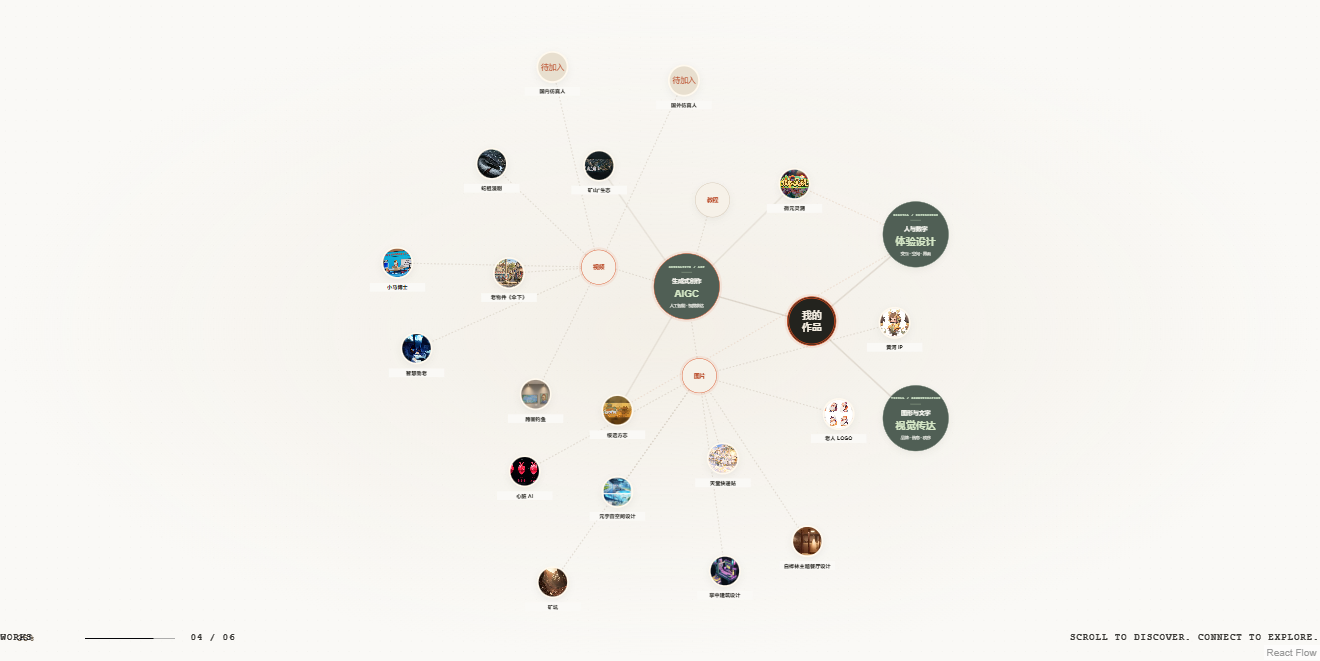
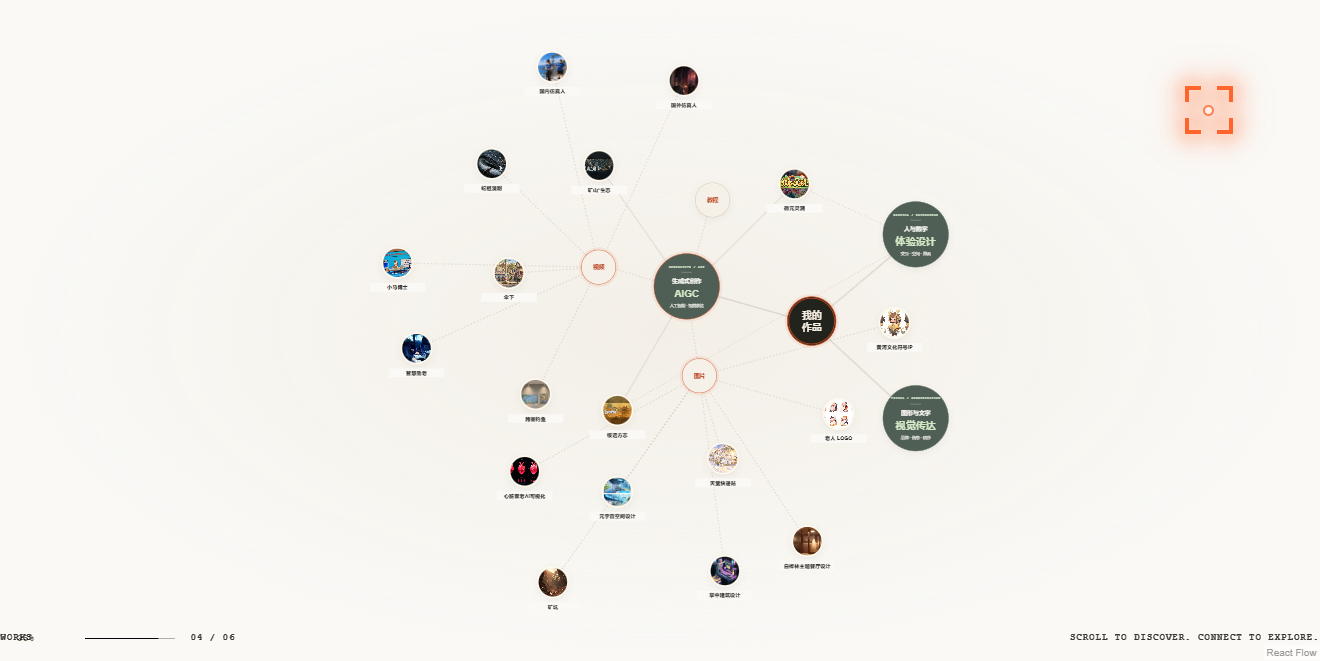
PHASE 5 已确认内容的收尾
核验 67 个作品，素材无缺失，详情入口通过检查。
手机端加入“领域 → 分类 → 作品”分层浏览。
支持作品直达链接、刷新恢复、复制链接及前进／后退。
时间线新增“在图谱中定位”，原概况仍在右侧展开。

diff --git a/New/js/components/WorkGraph.tsx b/New/js/components/WorkGraph.tsx
@@ -1,6 +1,7 @@
 import { memo, useEffect, useMemo, useRef, useState } from 'react';
 import { Background, Handle, Position, ReactFlow, useStore, type Edge, type Node, type NodeProps, type ReactFlowInstance } from '@xyflow/react';
 import { useElasticGraph } from '../hooks/useElasticGraph';
+import {journeyEntries} from '../../data/journey';
 import { categories } from '../../data/content';
 import { graphDetailKeys, graphGroups, graphWorks } from '../../data/graph';
 import { legacyAsset } from '../lib/assets';
@@ -68,12 +69,15 @@ function readGraphReturn():GraphReturn|null{
 }
 export default function WorkGraph(){
  const [restored]=useState(readGraphReturn);
+ const [linked]=useState(()=>graphWorks.find(w=>w.id===(location.hash.startsWith('#work=')?location.hash.slice(6):new URLSearchParams(location.search).get('project'))));
+ const linkedGroup=graphGroups.find(g=>g.id===linked?.group);
+
  const restoreViewport=useRef(Boolean(restored));
  const [returnToken]=useState(()=>crypto.randomUUID());
- const [category,setCategory]=useState<string|null>(restored?.category??null);
- const [group,setGroup]=useState<string|null>(restored?.group??null);
- const [expanded,setExpanded]=useState<string[]>(restored?.expanded??[]);
- const [selected,setSelected]=useState<string|null>(restored?.selected??null);
+ const [category,setCategory]=useState<string|null>(restored?.category??linkedGroup?.category??null);
+ const [group,setGroup]=useState<string|null>(restored?.group??(linkedGroup?.id==='scenes'?null:linkedGroup?.id)??null);
+ const [expanded,setExpanded]=useState<string[]>(restored?.expanded??(linkedGroup?[linkedGroup.category,...(linkedGroup.id==='scenes'?[]:[linkedGroup.id])]:[]));
+ const [selected,setSelected]=useState<string|null>(restored?.selected??linked?.id??null);
  const [flow,setFlow]=useState<ReactFlowInstance<ArchiveNode>|null>(null);
  const [resetVersion,setResetVersion]=useState(0);
  const historySignature=useRef('');
@@ -83,7 +87,8 @@ export default function WorkGraph(){
   if(historySignature.current===signature)return;
   const first=!historySignature.current;historySignature.current=signature;
   const next={...history.state,portfolioGraph:snapshot};
-  if(first)history.replaceState(next,'');else history.pushState(next,'');
+  const url=new URL(location.href);if(selected)url.searchParams.set('project',selected);else {url.searchParams.delete('project');if(url.hash.startsWith('#work='))url.hash='works';}
+  if(first)history.replaceState(next,'',url);else history.pushState(next,'',url);
  },[expanded,selected,category,group]);
  useEffect(()=>{
   const restore=(event:PopStateEvent)=>{
@@ -93,6 +98,16 @@ export default function WorkGraph(){
   };
   window.addEventListener('popstate',restore);return()=>window.removeEventListener('popstate',restore);
  },[]);
+ useEffect(()=>{
+  const locate=()=>{
+   if(!location.hash.startsWith('#work='))return;
+   const item=graphWorks.find(w=>w.id===location.hash.slice(6));const parent=graphGroups.find(g=>g.id===item?.group);if(!item||!parent)return;
+   const snapshot={expanded:[parent.category,...(parent.id==='scenes'?[]:[parent.id])],selected:item.id,category:parent.category,group:parent.id==='scenes'?null:parent.id};
+   historySignature.current=JSON.stringify(snapshot);history.replaceState({...history.state,portfolioGraph:snapshot},'');
+   setExpanded(snapshot.expanded);setSelected(item.id);setCategory(parent.category);setGroup(snapshot.group);
+  };
+  window.addEventListener('hashchange',locate);return()=>window.removeEventListener('hashchange',locate);
+ },[]);
  const detail=useRef<HTMLDivElement>(null);
  const lightbox=useRef<HTMLDialogElement>(null);
  const [imageOpen,setImageOpen]=useState(false);
@@ -100,9 +115,12 @@ export default function WorkGraph(){
  const returnButton=useRef<HTMLButtonElement|null>(null);
  const reduced=()=>matchMedia('(prefers-reduced-motion: reduce)').matches;
  const work=graphWorks.find(w=>w.id===selected);
+ const confirmedEntry=journeyEntries.find(e=>e.workId===work?.id||e.id===({'ai-extra-6':'arti','ai-extra-9':'earthquake'} as Record<string,string>)[work?.id??'']);
  const media=work?(mediaCatalog as Record<string,WorkMedium[]>)[work.id]??[]:[];
  const imageWork=media.length>0&&!['logos','layout','apps'].includes(work?.group??'')&&!['ai-extra-2','ai-extra-5','ai-extra-7','ai-extra-10','ai-extra-12','ai-extra-14'].includes(work?.id??'');
  const videoGrid=['ai-extra-3','ai-extra-6'].includes(work?.id??'');
+ const [linkStatus,setLinkStatus]=useState('');
+ const copyLink=async()=>{const url=new URL(location.href);url.search='';url.searchParams.set('project',selected!);url.hash='works';try{await navigator.clipboard.writeText(url.href);setLinkStatus('链接已复制');}catch{setLinkStatus(url.href);}};
  const openPreview=()=>{setMediaIndex(0);setImageOpen(true);};
  useEffect(()=>{
   const dialog=lightbox.current;if(!imageOpen||!dialog)return;
@@ -113,8 +131,8 @@ export default function WorkGraph(){
  function showAll(){setSelected(null);setExpanded(old=>old.length?[]:categories.map(c=>c.id));}
  function chooseCategory(id:string){setCategory(id);setGroup(null);setSelected(null);setExpanded(old=>old.includes(id)?old.filter(x=>x!==id&&!graphGroups.some(g=>g.category===id&&g.id===x)):[...old,id]);}
  function chooseGroup(id:string){setGroup(id);setSelected(null);setExpanded(old=>old.includes(id)?old.filter(x=>x!==id):[...old,id]);}
- function chooseWork(id:string){returnButton.current=document.activeElement instanceof HTMLButtonElement?document.activeElement:null;setSelected(id);}
- function close(){setSelected(null);returnButton.current?.focus({preventScroll:true});}
+ function chooseWork(id:string){setLinkStatus('');returnButton.current=document.activeElement instanceof HTMLButtonElement?document.activeElement:null;setSelected(id);}
+ function close(){setSelected(null);returnButton.current?.focus({preventScroll:true});if(innerWidth<768)returnButton.current?.scrollIntoView({block:'nearest',behavior:'instant'});}
  const visibleGroups=graphGroups.filter(g=>g.id!=='scenes'&&expanded.includes(g.category));
  const visibleWorks=graphWorks.filter(w=>expanded.includes(w.group==='scenes'?'aigc':w.group));
  const nodes:ArchiveNode[]=useMemo(()=>{
@@ -134,17 +152,30 @@ export default function WorkGraph(){
  }
  useEffect(()=>{if(!flow)return;if(restoreViewport.current&&restored){restoreViewport.current=false;const timer=setTimeout(()=>{void flow.setViewport(restored.viewport);window.scrollTo({top:restored.scrollY,behavior:'instant'});},100);return()=>clearTimeout(timer);}const timer=setTimeout(()=>void flow.fitView({padding:.18,maxZoom:1,minZoom:.2,duration:reduced()?0:420}),40);return()=>clearTimeout(timer);},[flow,expanded,resetVersion]);
  useEffect(()=>{if(selected){detail.current?.focus({preventScroll:true});if(innerWidth<768)detail.current?.scrollIntoView({behavior:reduced()?'instant':'smooth',block:'nearest'});}},[selected]);
+ const mobileCategory=category&&expanded.includes(category)?category:null;
+ const mobileGroup=group&&expanded.includes(group)?group:null;
+ const mobileBack=()=>{setSelected(null);if(mobileGroup){setExpanded(old=>old.filter(id=>id!==mobileGroup));setGroup(null);}else if(mobileCategory){setExpanded(old=>old.filter(id=>id!==mobileCategory&&!graphGroups.some(g=>g.id===id&&g.category===mobileCategory)));setCategory(null);}};
  return <div className="work-graph">
   <div className="graph-toolbar"><p className="graph-intro">三个设计领域，<br/>彼此连接的创作实践。</p>
   <div className="graph-tools" aria-label="图谱操作"><button onClick={()=>void flow?.zoomOut({duration:reduced()?0:180})} aria-label="缩小图谱">−</button><button onClick={()=>void flow?.zoomIn({duration:reduced()?0:180})} aria-label="放大图谱">＋</button><button onClick={()=>void flow?.fitView({padding:.18,maxZoom:1,duration:reduced()?0:350})}>适应画布</button><button onClick={reset}>重置图谱</button></div>
   <p className="graph-hint">拖动圆点，自由整理关系 · 拖动空白处移动画布 · 滚轮继续浏览页面</p>
   </div>
+  <nav className="graph-mobile-browser" aria-label="作品分层浏览">
+   <div className="graph-mobile-heading">{mobileCategory?<button onClick={mobileBack}>← 返回{mobileGroup?'分类':'领域'}</button>:<span>选择创作领域</span>}<span>{mobileGroup?graphGroups.find(g=>g.id===mobileGroup)?.label:categories.find(c=>c.id===mobileCategory)?.label}</span></div>
+   <div className="graph-mobile-items">
+    {!mobileCategory?categories.map(c=><button key={c.id} onClick={()=>chooseCategory(c.id)}>{c.label}<span aria-hidden="true">↗</span></button>):!mobileGroup?<>
+     {graphGroups.filter(g=>g.category===mobileCategory&&g.id!=='scenes').map(g=><button key={g.id} onClick={()=>chooseGroup(g.id)}>{g.label}<span>{graphWorks.filter(w=>w.group===g.id).length} 件</span></button>)}
+     {mobileCategory==='aigc'&&graphWorks.filter(w=>w.group==='scenes').map(w=><button key={w.id} onClick={()=>chooseWork(w.id)}><img src={preview(w.id)} alt=""/>{w.title}<span aria-hidden="true">↗</span></button>)}
+    </>:graphWorks.filter(w=>w.group===mobileGroup).map(w=><button key={w.id} aria-pressed={selected===w.id} onClick={()=>chooseWork(w.id)}><img src={preview(w.id)} alt=""/><span>{w.title}</span><span aria-hidden="true">↗</span></button>)}
+   </div>
+  </nav>
   <div className="graph-layout">
    <GraphCanvas models={nodes} edges={edges} resetVersion={resetVersion} onInit={setFlow}/>
    {work&&<div className={`graph-detail${work.group==='apps'?' graph-detail--app':''}`} ref={detail} tabIndex={-1} role="region" aria-label="作品概况" onKeyDown={e=>{if(e.key==='Escape'){e.preventDefault();close();}}}>
     <button className="graph-close" onClick={close}>返回图谱 ×</button>{work.group==='apps'?<AppPreview key={work.id} id={work.id}/>:preview(work.id)&&(imageWork?<button className="graph-cover-button" onClick={openPreview} aria-label={`放大查看${work.title}`}><img key={work.id} src={preview(work.id)} alt={`${work.title}封面`} decoding="async"/><span>{media.length>1?`查看作品 · ${media.length} 项`:'查看作品'} ↗</span></button>:<img key={work.id} src={preview(work.id)} alt={`${work.title}封面`} loading="lazy" decoding="async"/>)}
-    <span className="graph-detail-label">{graphGroups.find(g=>g.id===work.group)?.label}</span><h3>{work.title}</h3><p>{work.summary}</p><small>{work.pending?'待加入 · 暂无素材':work.date}</small>
+    <span className="graph-detail-label">{graphGroups.find(g=>g.id===work.group)?.label}</span><h3>{work.title}</h3><p>{work.summary}</p>{confirmedEntry&&<div className="graph-confirmed-tags" aria-label="作品相关方向">{confirmedEntry.tags.map(tag=><span key={tag}>{tag}</span>)}</div>}<small>{work.pending?'待加入 · 暂无素材':work.date}</small>
     {!work.pending&&<a className="graph-detail-link" onClick={saveReturn} onAuxClick={saveReturn} target="_blank" rel="noopener noreferrer" aria-label={`${graphDetailKeys[work.id]?'查看完整作品详情':'查看完整作品详情'}（新标签页）`} href={graphDetailKeys[work.id]?`${legacyAsset('index.html',import.meta.env.BASE_URL)}?work=${graphDetailKeys[work.id]}&from=graph&graphReturn=${returnToken}`:mediaUrl(work.original)}><span>{graphDetailKeys[work.id]?'查看完整作品':'查看完整作品'}</span><span aria-hidden="true">↗</span></a>}
+    <button className="graph-share" onClick={copyLink}>复制作品链接 ↗</button>{linkStatus&&<p role="status" className="graph-share-status">{linkStatus}</p>}
    </div>}
   </div>
   <dialog ref={lightbox} className="graph-lightbox" aria-label={work?`${work.title}原图`:'作品原图'} onClose={()=>setImageOpen(false)} onClick={e=>{if(e.target===e.currentTarget)setImageOpen(false);}}>

diff --git a/New/js/tests/phase6-navigation.spec.ts b/New/js/tests/phase6-navigation.spec.ts
@@ -1,0 +1,28 @@
+import {test,expect} from '@playwright/test';
+for(const width of [375,430,768,1440])test(`project deep link and scrolling at ${width}`,async({page})=>{
+ await page.setViewportSize({width,height:900});await page.emulateMedia({reducedMotion:'reduce'});
+ await page.goto('/Portfolio-YoungSliker/New/?project=yanchage#works');
+ const card=page.getByRole('region',{name:'作品概况'});await expect(card).toContainText('颜茶阁');
+ expect(await page.evaluate(()=>document.documentElement.scrollWidth<=innerWidth)).toBe(true);
+ await page.reload();await expect(card).toContainText('颜茶阁');
+ await page.getByRole('button',{name:'返回图谱 ×',exact:true}).click();await expect(card).toHaveCount(0);await expect(page).not.toHaveURL(/project=/);
+ await page.goBack();await expect(card).toContainText('颜茶阁');
+ await page.getByRole('button',{name:'返回图谱 ×',exact:true}).click();
+ const before=await page.evaluate(()=>scrollY);await page.mouse.move(width/2,450);await page.mouse.wheel(0,600);await expect.poll(()=>page.evaluate(()=>scrollY)).toBeGreaterThan(before);
+});
+test('phone hierarchy opens all domains and supports going up',async({page})=>{
+ await page.setViewportSize({width:375,height:812});await page.emulateMedia({reducedMotion:'reduce'});await page.goto('/Portfolio-YoungSliker/New/#works');
+ const nav=page.getByRole('navigation',{name:'作品分层浏览'});await expect(nav).toBeVisible();
+ await nav.getByRole('button',{name:'数字体验设计'}).click();await nav.getByRole('button',{name:/APP 设计/}).click();await nav.getByRole('button',{name:'颜茶阁'}).click();
+ await expect(page.getByRole('region',{name:'作品概况'})).toBeVisible();await page.screenshot({path:'test-results/phase6-phone-detail.png'});
+ await page.getByRole('button',{name:'返回图谱 ×',exact:true}).click();await nav.getByRole('button',{name:'返回分类'}).click();await nav.getByRole('button',{name:'返回领域'}).click();
+ await nav.getByRole('button',{name:'AIGC设计'}).click();await nav.getByRole('button',{name:/视频/}).click();await nav.getByRole('button',{name:'跨画钓鱼'}).click();
+ await page.getByRole('button',{name:'放大查看跨画钓鱼'}).click();await expect(page.locator('.graph-lightbox')).toBeVisible();await page.getByRole('button',{name:'关闭',exact:true}).click();
+ await expect(page.locator('body')).not.toHaveCSS('overflow','hidden');
+});
+test('journey keeps overview local and explicitly locates the graph',async({page})=>{
+ await page.emulateMedia({reducedMotion:'reduce'});await page.goto('/Portfolio-YoungSliker/New/#journey');
+ const row=page.locator('#journey-arti');await row.locator('.journey-work-link').click();await expect(row.locator('.journey-overview')).toBeVisible();await expect(page).toHaveURL(/#journey$/);
+ await row.getByRole('link',{name:'在图谱中定位'}).click();await expect(page.getByRole('region',{name:'作品概况'})).toContainText('ARTI');
+ await page.goBack();await expect(page).toHaveURL(/#journey$/);await expect(row.locator('.journey-overview')).toBeVisible();
+});

diff --git a/New/js/tests/work-graph.spec.ts b/New/js/tests/work-graph.spec.ts
@@ -2,7 +2,7 @@ import {test,expect} from '@playwright/test';
 import {graphDetailKeys,graphGroups,graphWorks} from '../../data/graph';
 import {legacyAsset} from '../lib/assets';
 const base='/Portfolio-YoungSliker/New/';
-for(const width of [375,844,1440,1920]) test(`collapsed graph, branch toggle and content ${width}`,async({page})=>{
+for(const width of [844,1440,1920]) test(`collapsed graph, branch toggle and content ${width}`,async({page})=>{
  await page.setViewportSize({width,height:width===844?390:900});await page.emulateMedia({reducedMotion:'reduce'});
  const errors:string[]=[];page.on('pageerror',e=>errors.push(e.message));await page.goto(base+'#works');
  const graph=page.locator('.work-graph');
@@ -21,11 +21,12 @@ for(const width of [375,844,1440,1920]) test(`collapsed graph, branch toggle and
     await activate(work.id);
     const detail=graph.getByRole('region',{name:'作品概况'});await expect(detail.getByRole('heading')).toHaveText(work.title);
     if(work.pending){await expect(detail).toContainText('待加入');await expect(detail.getByRole('link')).toHaveCount(0);}
-    else await expect.poll(()=>detail.locator('img').evaluate((e:HTMLImageElement)=>e.complete&&e.naturalWidth>0)).toBe(true);
+    else if(work.id==='xueban')await expect(detail.locator('video')).toHaveAttribute('src',/mp4/);
+    else await expect.poll(()=>detail.locator('img').first().evaluate((e:HTMLImageElement)=>e.complete&&e.naturalWidth>0)).toBe(true);
     if(!work.pending){
      const link=detail.getByRole('link');
      const expected=graphDetailKeys[work.id]?`/Portfolio-YoungSliker/index.html?work=${graphDetailKeys[work.id]}`:legacyAsset(work.original,base);
-     await expect(link).toHaveAttribute('href',expected);await expect(link).toHaveAttribute('target','_blank');
+     if(graphDetailKeys[work.id])expect(await link.getAttribute('href')).toContain(expected+'&from=graph');else await expect(link).toHaveAttribute('href',/\.mp4$/);await expect(link).toHaveAttribute('target','_blank');
     }
     await page.keyboard.press('Escape');await expect(node(work.id)).toBeFocused();
    }

diff --git a/New/js/components/Works.tsx b/New/js/components/Works.tsx
@@ -1,4 +1,3 @@
-import { featuredWorks, categories } from '../../data/content';
 import { legacyAsset } from '../lib/assets';
 import { SectionHeading } from './SectionHeading';
 import { lazy, Suspense, useEffect, useRef, useState } from 'react';
@@ -17,10 +16,6 @@ export function Works() {
   return <section id="works" className="section works" aria-label="作品档案">
     <div className="works-heading"><SectionHeading number="04" label="CREATIVE UNIVERSE">IDEAS BECOME<br /><span className="accent">EXPERIENCES.</span></SectionHeading></div>
     <div ref={graphAnchor} style={{minHeight:600}}>{graphReady&&<Suspense fallback={<p role="status">正在展开作品图谱…</p>}><WorkGraph/></Suspense>}</div>
-    <div className="work-grid">{featuredWorks.map((work, index) => <article className="work" id={`work-${work.id}`} tabIndex={-1} key={work.id}>
-      <div className="work-image"><img src={legacyAsset(work.cover, import.meta.env.BASE_URL)} alt={`${work.title}作品封面`} loading="lazy" decoding="async" width="1600" height="1000" /><span className="work-number">0{index + 1}</span></div>
-      <div className="work-title"><h3>{work.title}</h3><span>AIGC</span></div><p>{work.subcategory}</p><p className="work-date">完成时间待核对</p>
-    </article>)}</div>
-    <div className="works-footer"><div className="category-labels">{categories.map(c => <span key={c.id}>{c.number} / {c.label}</span>)}</div><p>点击图谱中的分类，展开作品。<br />完整内容可继续浏览旧版作品集。</p><a className="text-link" href={legacyAsset('index.html', import.meta.env.BASE_URL)}>浏览旧版作品集 <span aria-hidden="true">↗</span></a></div>
+    <div className="works-footer"><p>点击图谱中的分类，展开作品。<br />完整内容可继续浏览旧版作品集。</p><a className="text-link" href={legacyAsset('index.html', import.meta.env.BASE_URL)}>浏览旧版作品集 <span aria-hidden="true">↗</span></a></div>
   </section>;
 }

diff --git a/New/js/components/Journey.tsx b/New/js/components/Journey.tsx
@@ -18,6 +18,7 @@ const overviewCopy:Record<string,string>={
   earthquake:'制作系列视频，传播活动断层探测成果的应用及减轻地震灾害损失的知识。',
   suiyuan:'以呼和浩特史志为内容，使用 AIGC、Unity 与 VR 构建沉浸式交互体验。'
 };
+const graphEntryIds:Record<string,string>={mine:'mine-eco',arti:'ai-extra-6',lingsu:'weiyuan',earthquake:'ai-extra-9',suiyuan:'suiyuan'};
 const overviewImages:Record<string,string[]>= {
   education:['数媒/师大标志(左右组合)'],
   arti:['ARTI/0091','ARTI/0092'], lingsu:['微元灵溯LOGO'], internship:['FaceMindLogo'],
@@ -96,7 +97,7 @@ export function Journey() {
             <h4>{entry.id==='internship'?'AIGC 实习 · 工作内容':entry.id==='earthquake'?'活动断层成果应用':entry.title}</h4>
             {entry.id==='internship'?<ul className="journey-internship-list"><li>配置和优化 ComfyUI 的 LivePortrait、easyanimat。</li><li>完善和修改角色卡，制作抽卡抽奖动画及类 fufu 的角色 AI 动画。</li><li>制作 CP30 宣发海报、易拉宝，完善哄哄模拟器设计，迭代话题与话术。</li><li>完善 VUP 模拟器设计，使用 PyQt 编写界面。</li></ul>:<p>{overviewCopy[entry.id]??entry.description}</p>}
             {overviewImages[entry.id]&&<div className={`journey-overview-images journey-overview-images--${entry.id}`}>{(entry.id==='suiyuan'?suiyuanImages:overviewImages[entry.id]).map((key,index)=>{const src=imageFrom(key);return src?<img key={key} src={src} alt={`${entry.title}展示 ${index+1}`} loading="lazy" decoding="async"/>:null;})}</div>}
-            <p className="journey-overview-meta">{entry.organization} · {entry.date}</p>
+            <p className="journey-overview-meta">{entry.organization} · {entry.date}</p>{graphEntryIds[entry.id]&&<a className="journey-graph-link" href={`#work=${graphEntryIds[entry.id]}`}>在图谱中定位 ↗</a>}
           </>}
         </section>}
 

diff --git a/New/css/work-graph.css b/New/css/work-graph.css
@@ -122,3 +122,20 @@
 .graph-detail--app .graph-app-preview--native video{width:100%;height:100%;object-fit:cover}
 .graph-phone-screen{inset:2.3% 5.2%;border-radius:13% / 6.2%}
 .graph-phone-screen img{transform:none}
+.graph-mobile-browser{display:none}
+.graph-share{border:0;background:transparent;color:#79624e;font:11px var(--mono);padding:14px 0 0;min-height:44px}
+.graph-share-status{overflow-wrap:anywhere}
+@media(max-width:767px){
+ .graph-mobile-browser{display:block;margin:16px 0 24px}
+ .graph-mobile-heading{display:flex;align-items:center;justify-content:space-between;gap:12px;font-size:12px;margin-bottom:10px;color:#716757}
+ .graph-mobile-heading button{border:0;background:transparent;padding:10px 0;min-height:44px;color:#a44224}
+ .graph-mobile-items{display:grid;gap:8px}
+ .graph-mobile-items button{display:flex;align-items:center;gap:12px;text-align:left;width:100%;min-height:58px;padding:10px 14px;background:#f3efe7;border:1px solid #d8cfc2;border-radius:12px;color:#302a22;font-size:14px}
+ .graph-mobile-items button>span:last-child{margin-left:auto;flex-shrink:0;font-size:11px;color:#776a59}
+ .graph-mobile-items button[aria-pressed=true]{border-color:#d94a1c;background:#f7eade}
+ .graph-mobile-items img{width:40px;height:40px;object-fit:cover;border-radius:50%}
+ .graph-canvas,.graph-toolbar .graph-tools,.graph-toolbar .graph-hint{display:none}
+ .graph-detail{scroll-margin-top:100px}
+ .graph-detail--app{width:100%}
+}
+.graph-confirmed-tags{display:flex;flex-wrap:wrap;gap:6px;margin-top:12px}.graph-confirmed-tags span{font-size:10px;border:1px solid #d8cfc2;border-radius:20px;padding:5px 8px;color:#79624e}

diff --git a/New/js/hooks/useSections.ts b/New/js/hooks/useSections.ts
@@ -27,7 +27,7 @@ export function useSections() {
     let anchorFrame = 0;
     const restoreAnchor = () => {
       cancelAnimationFrame(anchorFrame);
-      const section = sections.find(item => `#${item.id}` === location.hash);
+      const section = sections.find(item => `#${item.id}` === location.hash || (!location.hash&&new URLSearchParams(location.search).has('project')&&item.id==='works'));
       if (!section && location.hash.startsWith('#work=')) {
         anchorFrame = requestAnimationFrame(() => {
           const workId=location.hash.slice(6);

diff --git a/New/css/journey.css b/New/css/journey.css
@@ -123,3 +123,5 @@
 .journey-certificate .certificate-image--rotate img {position:absolute;width:200px;height:140.35px;left:50%;top:50%;transform:translate(-50%,-50%) rotate(-90deg);}
 .journey-lightbox>img.certificate-full--rotate {width:min(calc(100dvh - 110px),calc((100vw - 64px)*1.425));height:auto;max-width:none;max-height:none;transform:rotate(-90deg);}
 
+
+.journey-graph-link{display:inline-flex;align-items:center;min-height:44px;font-size:11px;color:#cbb4a2;text-decoration:none}.journey-graph-link:hover{color:#ff936b}

diff --git a/New/docs/phase-6-report.md b/New/docs/phase-6-report.md
@@ -1,23 +1,26 @@
-# PHASE 6 — 图谱交互与滚动叙事（进行中）
+# PHASE 6 — 交互整合已实现，滚动叙事保留后续验收
 
-2026-10-24。
+日期：2026-10-25。
 
-## 采用的约束
+## 本轮完成
 
-遵循后续用户指示：默认收起，通过点击展开和收回；保留自由拖动、页面滚轮浏览及紧凑概况卡。原计划自动展开和强制聚焦不能覆盖这些后续要求。
+- 375、430 手机宽度提供领域→分类→作品的分层触控列表，返回上层保留清晰路径；与桌面共用作品数据及概况。
+- 桌面图谱保留默认收起、手动展开、拖动、缩放和原生页面滚动。展开视频与图片分支不会叠在一起。
+- 新版支持 ?project=作品ID#works 直达、刷新恢复、复制链接；兼容 #work=作品ID 的章节内定位。
+- 浏览器前进／后退恢复分支和作品选择；旧版返回恢复图谱状态与页面位置。
+- 时间线概况仍就地显示；五个作品增加明确的“在图谱中定位”次级入口，跳转后可后退回原概况。
+- 未确认的个人职责不推测，未改变用户确认的标题、媒体和概况规则。
 
-## 已推进
+## 约束及未完成项
 
-- 旧版详情返回新版时，恢复保存的展开分支、选中作品、节点位置、视口及页面位置。
-- 浏览器前进／后退恢复分类、分组和选中作品，连续返回可从作品退到分组，再退到分类，不额外离开页面。
-- 历史状态与章节导航共用浏览器历史，但保留其他 history.state 字段；返回历史不产生新的记录。
+原始计划中的 STORY MODE 自动阶段切换、主领域自动展开，与用户后续“默认关闭、点击展开”的要求需要保持一致。本轮不引入抢占手动视角的自动展开，也没有宣称完整自动滚动叙事已完成。当前采用页面自然滚动＋手动探索，后续若增加叙事模式应作为可选入口。
 
-## 后续
+三端演示视频、最终性能与兼容性验收、正式发布属于 PHASE 7 / 8，尚未执行。
 
-- 检查小屏图谱分层操作与详情阅读。
-- 核对章节滚动和手动探索的衔接，避免滚轮被锁死或强制抢回视角。
-- 根据最终交互录制三端视频（PHASE 7）；尚未进入正式上线（PHASE 8）。
+## 验证证据
 
-## 验证
-
-构建通过。浏览器前进／后退、旧版返回、媒体尺寸和小卡布局做独立回归；结果以本轮实际测试输出为准。
+- 生产构建通过。
+- 旧版目录路由：62/62 通过。
+- 图谱操作、67 件作品内容遍历（844/1440/1920）、节点拖动、跨页返回、浏览器历史及小屏导航：12/12 通过。
+- 末轮定位链接、375/430/768/1440 深链及滚动、五个主项目、经历返回、证书和媒体尺寸：16/16 通过。
+- 人工查看手机详情截图；横向无溢出，播放器退出后滚动恢复。

diff --git a/New/docs/phase-5-report.md b/New/docs/phase-5-report.md
@@ -1,4 +1,4 @@
-# PHASE 5 — 完整作品接入（进行中）
+# PHASE 5 — 已确认作品接入与验收完成
 
 2026-10-24 核对原始计划与当前实现。PHASE 4 原型之后已扩展至 67 个节点（12 个主作品、55 个补充项，包含两个待加入项）。65 个已有作品均已映射完整旧版详情入口。
 
@@ -44,3 +44,15 @@
 - 颜茶阁小卡封面最终改用“闪屏页.png”，节点仍为用户指定 LOGO。
 - 自定义视频控件支持分段读取、拖动进度，竖屏控件与画面同宽；手机框裁切已核对。
 - 用户已确认的简介与标题已更新；未经确认的日期、职责和技能仍不补造。PHASE 5 内容核对尚未全量结束，可先推进不依赖这些事实的 PHASE 6 交互。
+
+## 2026-10-25 收尾验收
+
+以用户最新媒体和交互要求为准，本阶段可确认内容已完成接入：
+
+- 67 个唯一作品 ID，67 张图谱封面，51 组预览媒体，0 个待加入节点，0 个缺失素材；机器检查结果见 phase-5-asset-check.json。
+- 62 个生成的旧版路由逐项通过；5 个主案例直达入口另行验证。两个仿真人项目使用用户提供的完整视频。
+- 矿山、微元灵溯、绥远方志、ARTI、小马博士的相关方向标签来自已确认经历数据；其余作品不补造职责、日期和技能。
+- 清理旧占位作品栏及“完成时间待核对”占位卡，避免与正式图谱重复。
+- 当前 844、1440、1920 宽度下，67 个作品小卡、图片/视频、详情链接逐项验证通过。手机改由 PHASE 6 分层列表承载。
+
+原计划里的全量个人职责、团队分工与完成日期仍缺少事实来源，这些属于内容补充项，未对外展示，也未声称已经全部核实。该限制不阻塞已确认作品的浏览与后续交互开发。

diff --git a/New/docs/01-requirements-and-progress.md b/New/docs/01-requirements-and-progress.md
@@ -43,8 +43,10 @@
 - [x] PHASE 3：按用户提供简历接入时间轴、年份导航、当前节点高亮、无日期荣誉区和作品概况入口；见 phase-3-report.md。
 - [x] PHASE 4：12 件真实作品的 React Flow 图谱原型，分类展开、聚焦、缩放、拖动、复位和概况；见 phase-4-report.md。
 
-- [ ] PHASE 5 进行中：67 个节点均已提供实际内容（包含本轮两段仿真人视频），原有作品接入完整详情；图组、GIF 与视频类型已校正，剩余文案、职责与技能需核对，见 phase-5-report.md。
+- [x] PHASE 5 已确认内容接入及验收完成：67 个节点均已提供实际内容（包含本轮两段仿真人视频），原有作品接入完整详情；图组、GIF 与视频类型已校正，剩余文案、职责与技能需核对，见 phase-5-report.md。
 
 新版依赖独立位于 New。旧版已增加兼容详情入口、加载动画与返回新版入口；阶段记录以上述最新报告为准，整体尚未进入最终上线验收。
 
 - [ ] PHASE 6 已开始：浏览器前进／后退及旧版返回状态恢复已实现；保留用户要求的默认收起与手动展开。详见 phase-6-report.md。
+
+2026-10-25：PHASE 6 手机分层浏览、作品直达链接、时间轴明确定位、历史与滚动兼容已实现；自动 STORY MODE 未启用，保留后续验收，详见 phase-6-report.md。

diff --git a/New/docs/phase-5-6-plan.md b/New/docs/phase-5-6-plan.md
@@ -1,0 +1,7 @@
+# PHASE 5 收尾 → PHASE 6 实施计划（2026-10-25）
+
+1. 对 67 个作品检查唯一 ID、分类、封面、真实素材和完整入口；更新旧测试以匹配最新媒体规则，运行全部旧版详情入口回归。
+2. 清理旧占位作品栏；已确认的职责/工具采用原经历资料，未知字段不显示，不推测。
+3. 小屏增加分类→分组→作品的触控浏览，共享图谱状态和详情；桌面保留默认收起、拖动与页面原生滚动。
+4. 增加作品直达地址及刷新恢复，兼容前进后退和跨页返回。保持经历右侧概况与旧版详情入口。
+5. 验证手机、平板、桌面操作、详情开关与滚动，记录结果。三端视频与正式上线属于后续阶段。
